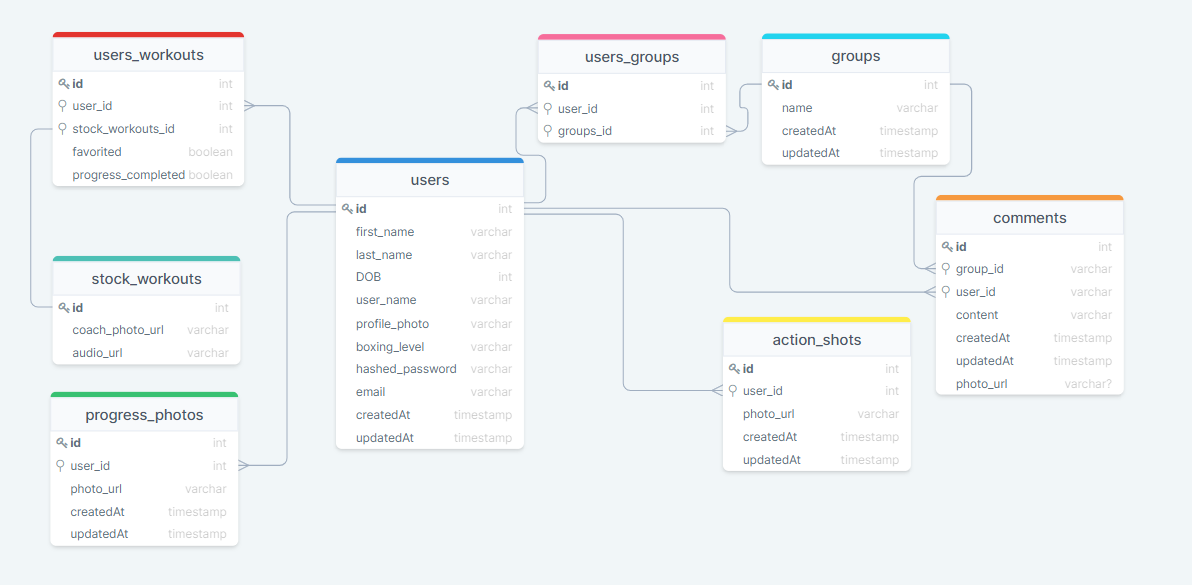
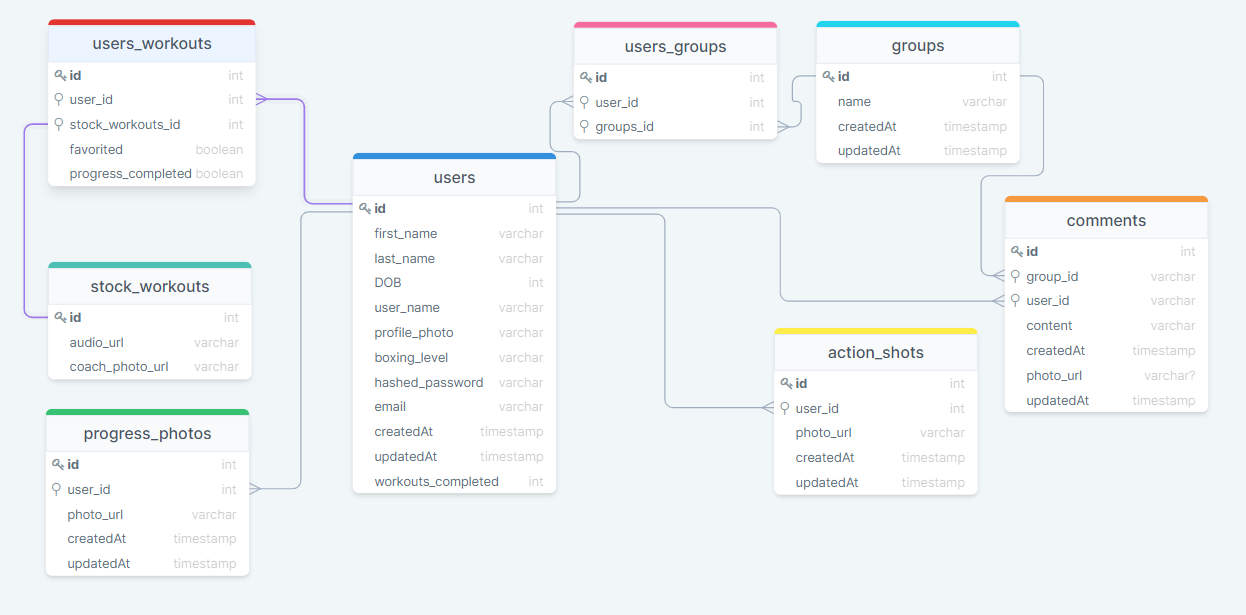
get and patch request to add workouts

diff --git a/react-app/src/store/workouts.js b/react-app/src/store/workouts.js
@@ -5,7 +5,7 @@ const GET_ALL_WORKOUT_COMPLETED = "getAllWorkoutCompleted";
 
 //ACTION
 const getUserWorkout = (userWorkout) => {
-  console.log('userWorkout',userWorkout);
+  console.log("userWorkout", userWorkout);
   return {
     type: GET_USER_WORKOUT,
     userWorkout,
@@ -13,7 +13,7 @@ const getUserWorkout = (userWorkout) => {
 };
 
 const getAllWorkoutCompleted = (allCompletedWorkouts) => {
-  console.log('allCompletedWorkouts',allCompletedWorkouts);
+  console.log("allCompletedWorkouts", allCompletedWorkouts);
   return {
     type: GET_ALL_WORKOUT_COMPLETED,
 
@@ -32,9 +32,29 @@ export const userWorkouts = () => async (dispatch) => {
 
 export const allWorkoutsComplete = () => async (dispatch) => {
   const response = await fetch("/api/workouts/user_workouts/completed");
-  const completedWorkouts = await response.json();
-  dispatch(getAllWorkoutCompleted(completedWorkouts));
-  return completedWorkouts;
+  const data = await response.json();
+  const completedWorkouts = Object.entries(data);
+
+  
+
+  // // sort the data by workouts completed
+  // const workoutOrdered = {};
+  // for (let key in data)
+  //   if (data.hasOwnProperty(key)) {
+  //     console.log("-----", data[key]);
+  //     workoutOrdered.append([key, data[key]]);
+  //   }
+
+  // workoutOrdered.sort(function (a, b) {
+  //   let x = a[1];
+  //   let y = b[1];
+  //   return x > y ? -1 : x < y ? 1 : 0;
+  // });
+
+  // console.log("--", workoutOrdered.json());
+
+  // dispatch(getAllWorkoutCompleted(workoutOrdered));
+  // return workoutOrdered;
 };
 
 //Reducer
@@ -55,7 +75,7 @@ export default function workoutReducer(state = initialState, action) {
     //   action.allCompletedWorkouts.workout_totals.forEach((workout)=>{
     //     total[workout]
     //   })
-      
+
     default:
       return state;
   }

diff --git a/app/seeds/users_workouts.py b/app/seeds/users_workouts.py
@@ -3,10 +3,32 @@ from app.models import db, User_Workout
 
 def seed_users_workouts():
 
-    workout1 = User_Workout(
-        user_id='1', stock_workouts_id='2', favorited=True, progress_completed=True)
+    workout1 = User_Workout(user_id='1', stock_workouts_id='2', favorited=True, progress_completed=True)
+    workout2 = User_Workout(user_id='1', stock_workouts_id='2', favorited=True, progress_completed=True)
+    workout3 = User_Workout(user_id='1', stock_workouts_id='1', favorited=True, progress_completed=True)
+    workout4 = User_Workout(user_id='1', stock_workouts_id='1', favorited=True, progress_completed=True)
+    workout5 = User_Workout(user_id='1', stock_workouts_id='2', favorited=True, progress_completed=False)
 
-    db.session.add(workout1)
+    workout6 = User_Workout(user_id='2', stock_workouts_id='2', favorited=True, progress_completed=True)
+    workout7 = User_Workout(user_id='2', stock_workouts_id='1', favorited=True, progress_completed=True)
+    workout8 = User_Workout(user_id='2', stock_workouts_id='2', favorited=True, progress_completed=True)
+
+    workout9 = User_Workout(user_id='3', stock_workouts_id='1', favorited=True, progress_completed=True)
+    workout10 = User_Workout(user_id='3', stock_workouts_id='1', favorited=True, progress_completed=True)
+    workout11 = User_Workout(user_id='3', stock_workouts_id='1', favorited=True, progress_completed=True)
+    workout12 = User_Workout(user_id='3', stock_workouts_id='2', favorited=True, progress_completed=True)
+    workout13 = User_Workout(user_id='3', stock_workouts_id='1', favorited=True, progress_completed=True)
+    workout14 = User_Workout(user_id='3', stock_workouts_id='2', favorited=True, progress_completed=True)
+    workout15 = User_Workout(user_id='3', stock_workouts_id='2', favorited=True, progress_completed=False)
+
+
+    workouts = [workout1, workout2, workout3, workout4, workout5, workout6, workout7, workout8, workout9, workout10, workout11, workout12, workout13, workout14, workout14, workout15]
+
+
+    for workout in workouts:
+        db.session.add(workout)
+
+
     db.session.commit()
 
 

diff --git a/app/api/workout_routes.py b/app/api/workout_routes.py
@@ -47,20 +47,29 @@ def user_workouts():
 def user_workouts_all():
     method = request.method
     if method == 'GET':
-        workoutList = {}
-        # Get all users workout
-        # add column in user table to count workouts in the future!!!!
-        allUsersWorkouts = db.session.query(User_Workout).filter(User_Workout.progress_completed == True).join(User).all()
-        for workout in allUsersWorkouts:
-            if workout.user_id not in workoutList:
-                workoutList[workout.user_id] = 1
-            else:
-                workoutList[workout.user_id] += 1
-        return {'workout_totals': workoutList}
-        # return jsonify({'totals': workoutList.to_dict()})
-        # return jsonify(workoutList_dict())
-        # return {"users": [c.to_dict() for c in allUsersWorkouts]}
-        # return {"all_user_workouts": [user_workout.to_dict() for user_workout in user_workouts]}
+        users = User.query.with_entities(User.id, User.workouts_completed).order_by(User.workouts_completed.desc())
+        return {"workoutsCompleted":[user for user in users]}
+
+
+@workout_routes.route('/user_workouts/completed/user', methods=['GET','PATCH'])
+# @login_required
+def user_workouts_single():
+    method = request.method
+    if method == 'GET':
+        # current_user.id
+        users = User.query.with_entities(User.workouts_completed).filter(User.id == 3)
+        return {"workoutsCompleted":[user for user in users]}
+    if method == 'PATCH':
+        id = 3
+        user = User.query.get(id)
+        if user:
+            add_workout = request.json['new_workout']
+            user.workouts_completed = add_workout
+            db.session.commit()
+        return jsonify(user.to_dict() if user else 'Invalid operation.')
+
+
+
 
 
 @workout_routes.route('/user_workouts/<int:id>', methods=['GET', 'PATCH', 'DELETE'])

diff --git a/app/seeds/users.py b/app/seeds/users.py
@@ -6,9 +6,13 @@ from app.models import db, User
 
 def seed_users():
     password = generate_password_hash('password', method='pbkdf2:sha256', salt_length=10)
-    demo = User(first_name='Dom', last_name='Mazzetti', DOB='1989-07-07', user_name='BroScience', profile_photo='https://scontent.fcmh1-1.fna.fbcdn.net/v/t31.18172-8/14633550_1123809221029062_6936248958858562733_o.jpg?_nc_cat=110&ccb=1-3&_nc_sid=174925&_nc_ohc=WrXniZTTMMYAX_Xwpki&_nc_ht=scontent.fcmh1-1.fna&oh=d24d1bfe7821c2bf2a1f6602a81b33ea&oe=60895C1B', boxing_level='beginner', email='demo@aa.io', hashed_password=password)
+    demo = User(first_name='Dom', last_name='Mazzetti', DOB='1989-07-07', user_name='BroScience', profile_photo='https://scontent.fcmh1-1.fna.fbcdn.net/v/t31.18172-8/14633550_1123809221029062_6936248958858562733_o.jpg?_nc_cat=110&ccb=1-3&_nc_sid=174925&_nc_ohc=WrXniZTTMMYAX_Xwpki&_nc_ht=scontent.fcmh1-1.fna&oh=d24d1bfe7821c2bf2a1f6602a81b33ea&oe=60895C1B', boxing_level='beginner', email='demo@aa.io', hashed_password=password, workouts_completed=4)
+    demo2 = User(first_name='Stephanie', last_name='Radson', DOB='1989-06-05', user_name='Boxer4Life', profile_photo='https://www.sportsmanias.com/images/gallery/27-100-hottest-instagram/display/88-Lauryn-Eagle.jpg', boxing_level='beginner', email='letsbox@aol.com', hashed_password=password, workouts_completed=3)
+    demo3 = User(first_name='Norton', last_name='Belview', DOB='1959-06-05', user_name='Mostly Snacks', profile_photo='https://www.stlmag.com/downloads/266196/download/Picture1.png?cb=15801fefed1780066fa199a2aab51d04&w=660&h=', boxing_level='beginner', email='boxingCoach@title.com', hashed_password=password, workouts_completed=6)
 
     db.session.add(demo)
+    db.session.add(demo2)
+    db.session.add(demo3)
 
     db.session.commit()
 

diff --git a/migrations/versions/5b76b1a1960e_.py b/migrations/versions/5b76b1a1960e_.py
@@ -1,8 +1,8 @@
 """empty message
 
-Revision ID: 3fe4af521cff
+Revision ID: 5b76b1a1960e
 Revises: 
-Create Date: 2021-04-01 14:07:07.333603
+Create Date: 2021-04-03 18:56:46.849367
 
 """
 from alembic import op
@@ -10,7 +10,7 @@ import sqlalchemy as sa
 
 
 # revision identifiers, used by Alembic.
-revision = '3fe4af521cff'
+revision = '5b76b1a1960e'
 down_revision = None
 branch_labels = None
 depends_on = None
@@ -39,6 +39,7 @@ def upgrade():
     sa.Column('hashed_password', sa.String(length=255), nullable=False),
     sa.Column('profile_photo', sa.String(), nullable=False),
     sa.Column('boxing_level', sa.String(), nullable=False),
+    sa.Column('workouts_completed', sa.Integer(), nullable=True),
     sa.PrimaryKeyConstraint('id'),
     sa.UniqueConstraint('email'),
     sa.UniqueConstraint('user_name')

diff --git a/app/models/user.py b/app/models/user.py
@@ -15,6 +15,7 @@ class User(db.Model, UserMixin):
     hashed_password = db.Column(db.String(255), nullable=False)
     profile_photo = db.Column(db.String, nullable=False)
     boxing_level = db.Column(db.String, nullable=False)
+    workouts_completed = db.Column(db.Integer, nullable=True)
 
     # relationships
     users_groups = db.relationship("User_Group", backref="users")
@@ -43,5 +44,6 @@ class User(db.Model, UserMixin):
             "DOB": self.DOB,
             "email": self.email,
             "profile_photo": self.profile_photo,
-            "boxing_level": self.boxing_level
+            "boxing_level": self.boxing_level,
+            "workouts_completed": self.workouts_completed
         }

diff --git a/app/api/progress_photos.py b/app/api/progress_photos.py
@@ -19,7 +19,7 @@ def progress_photo():
       # Create a progress photo
         new_photo = request.json['progress_photo']
         # REPLACE WITH current_user.id
-        photo = Progress_Photo(user_id=1, photo_url=new_photo)
+        photo = Progress_Photo(user_id=current_user.id, photo_url=new_photo)
         db.session.add(photo)
         db.session.commit()
         return {'new_progress_photo': [photo.to_dict()]}
